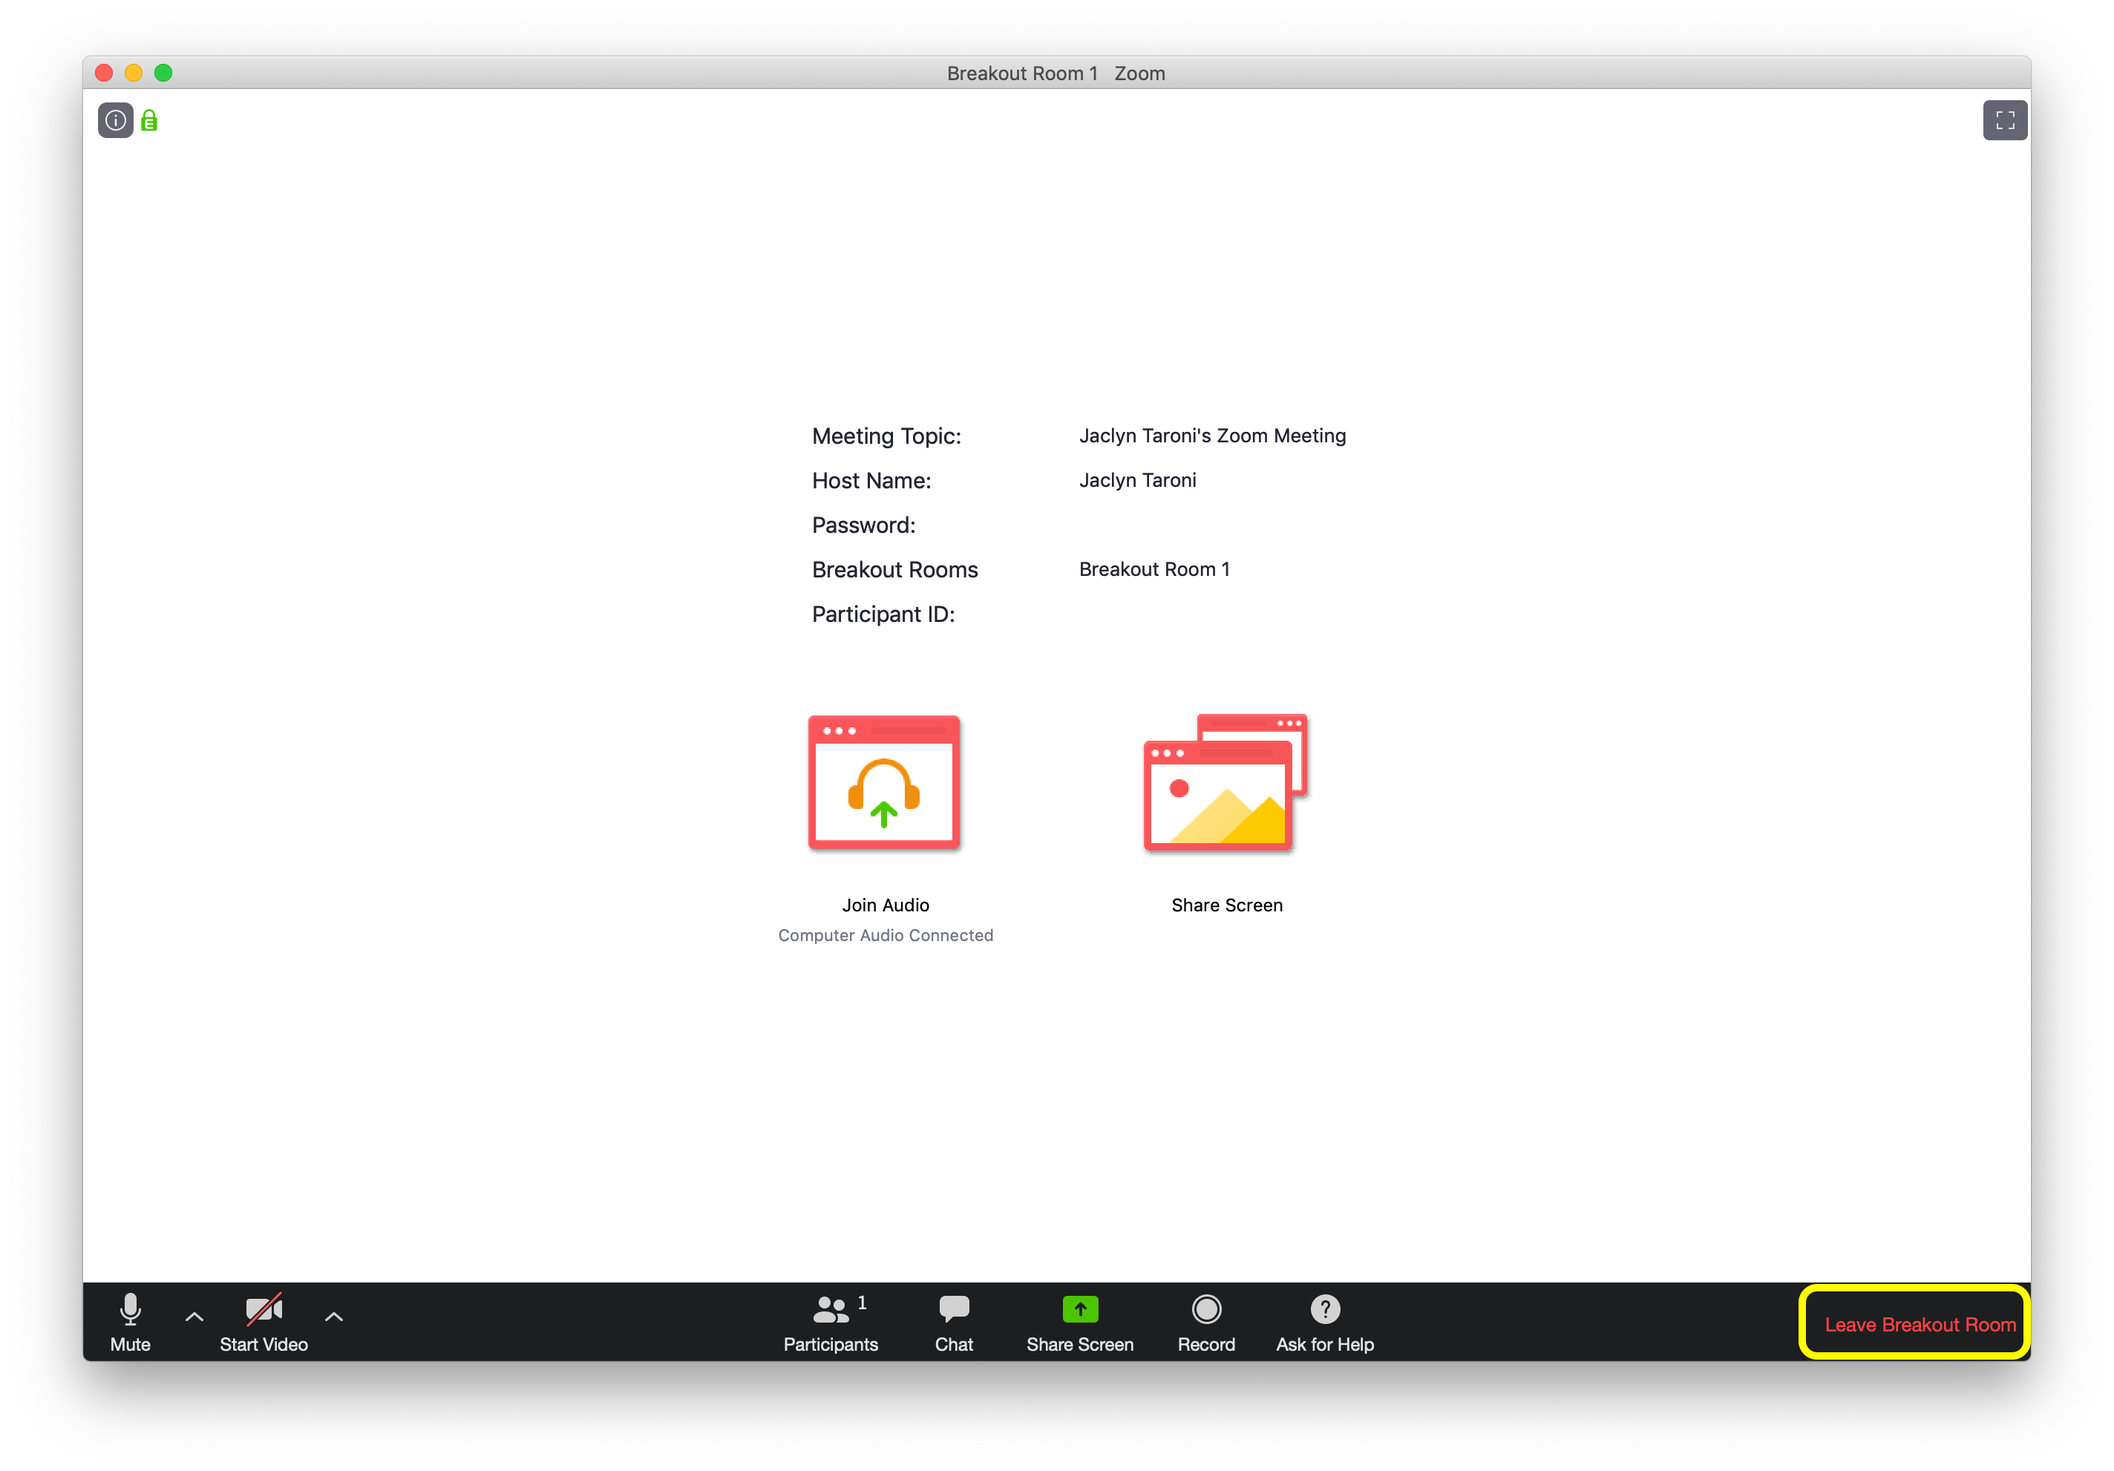
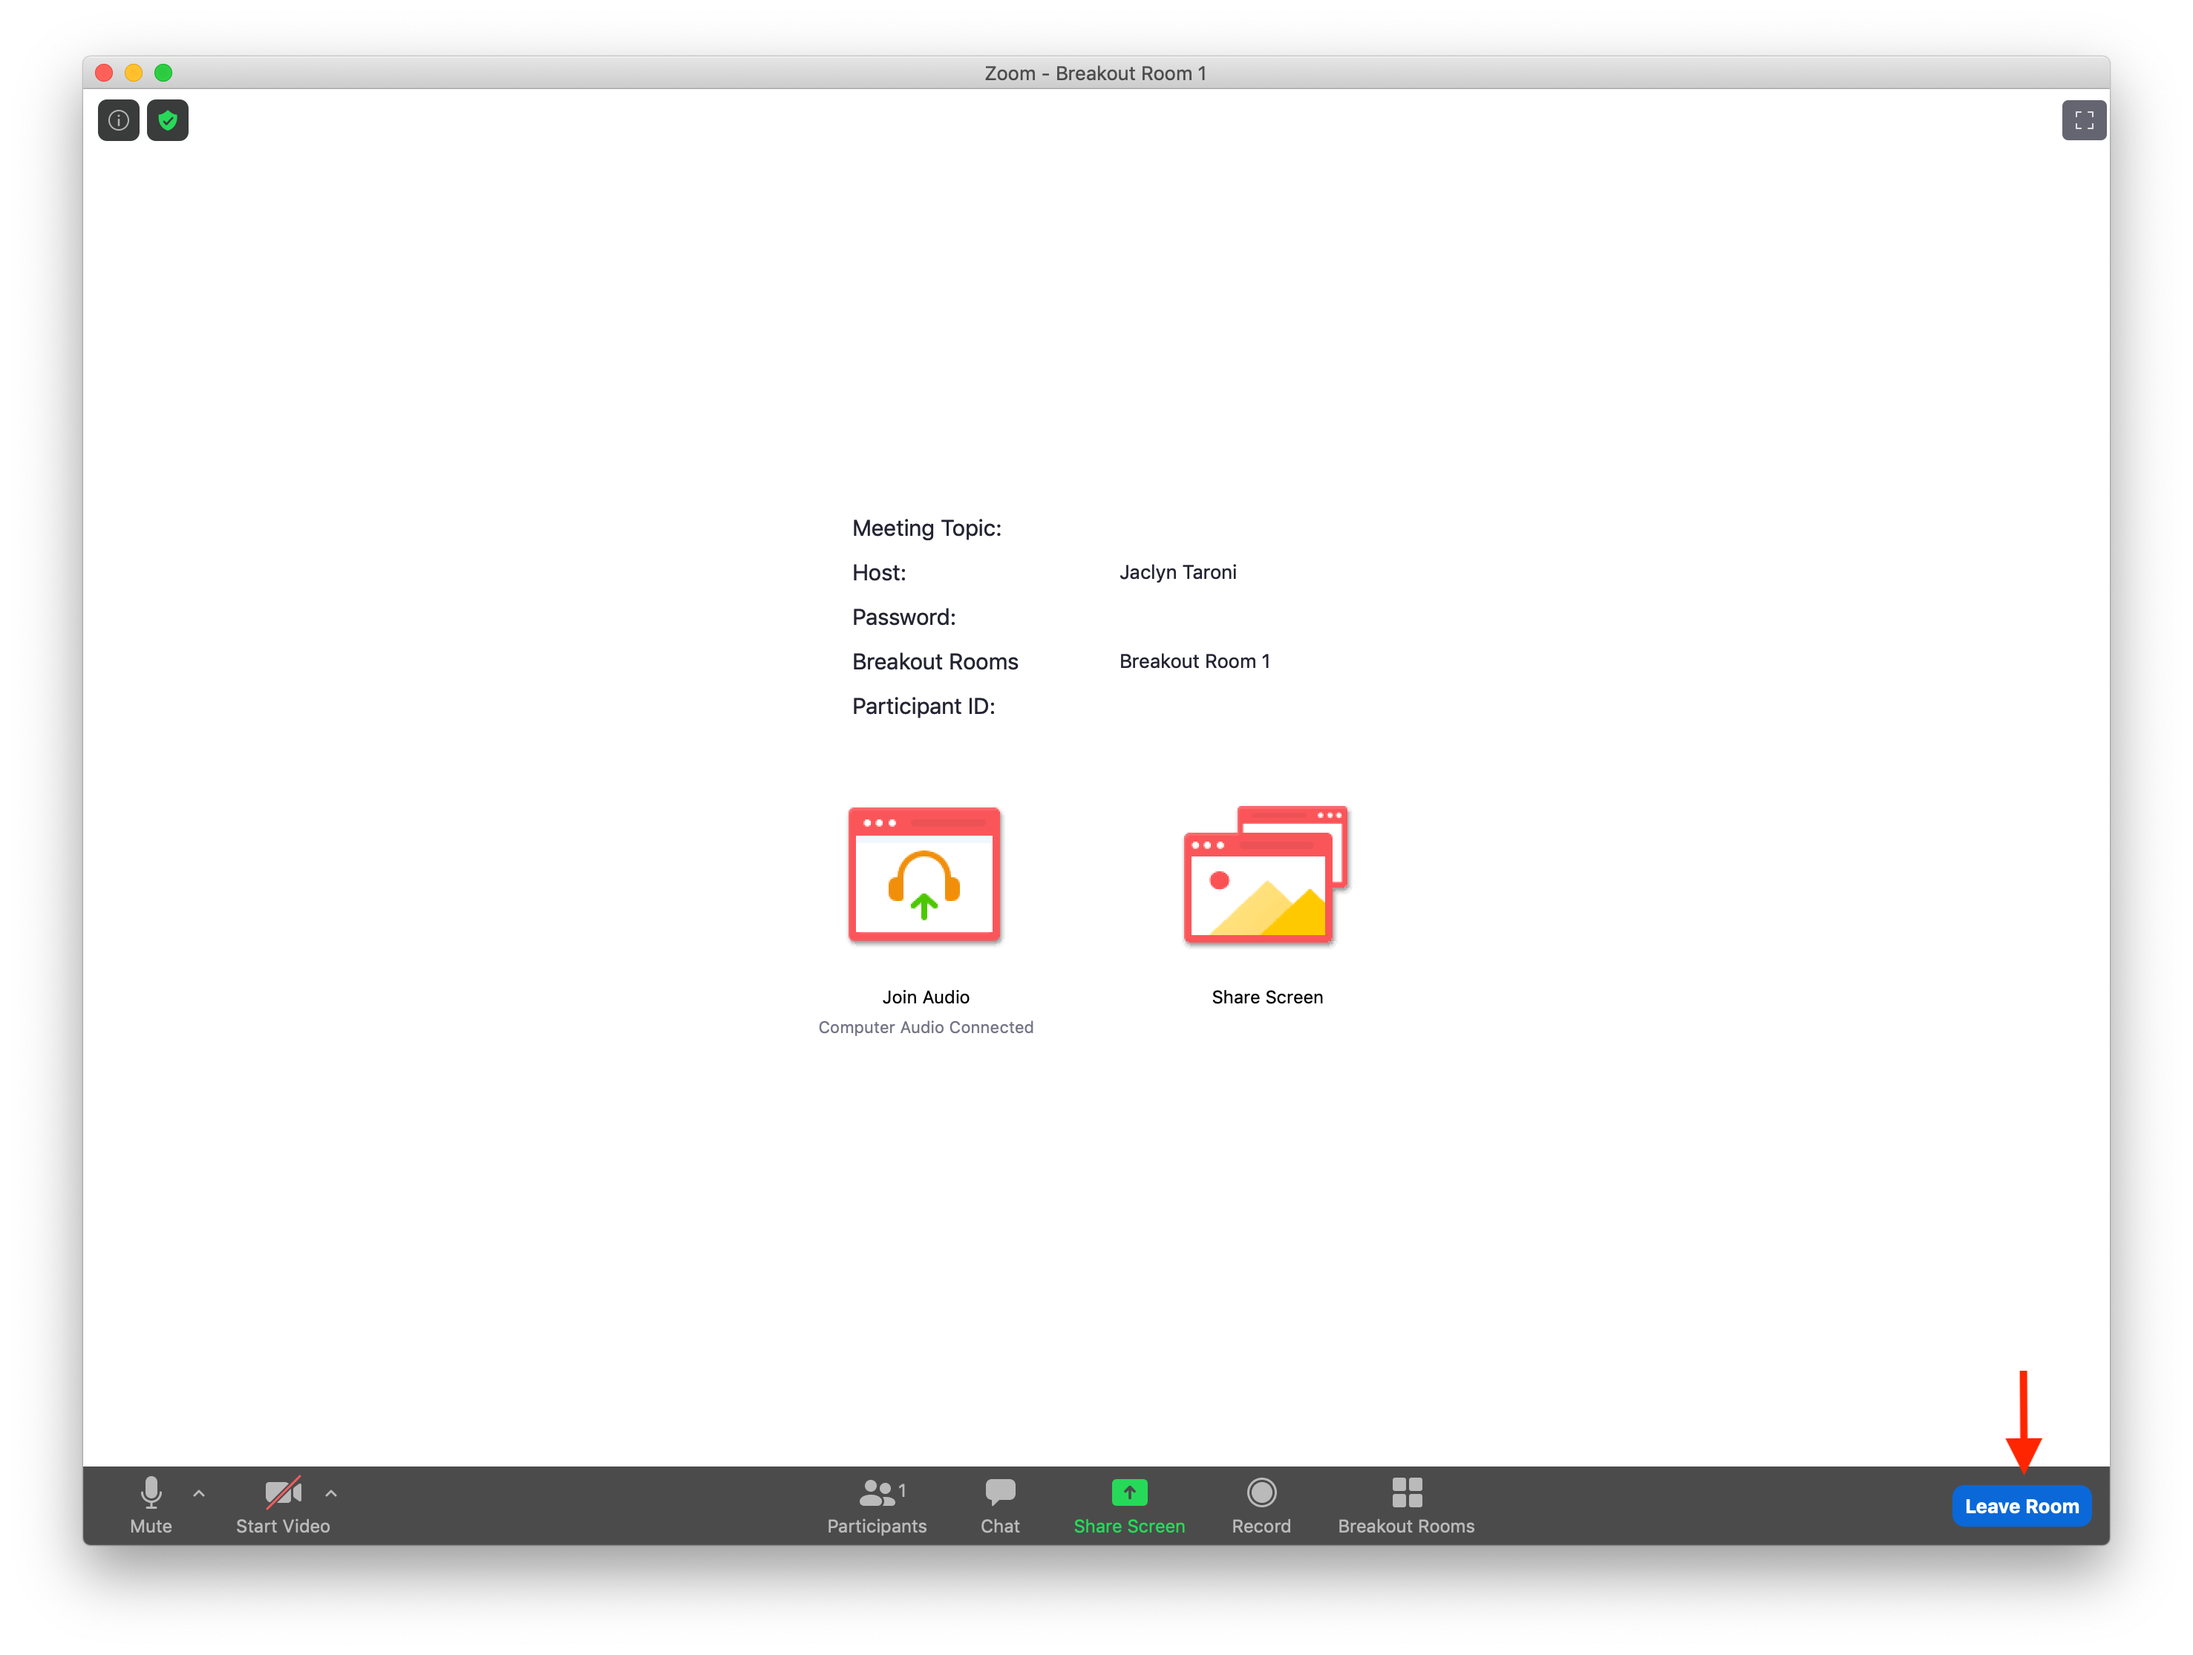
Update breakout room instructions

diff --git a/virtual-setup/zoom-procedures.md b/virtual-setup/zoom-procedures.md
@@ -176,13 +176,20 @@ To bring up chat, click the chat icon in the control bar.
 
 ### Joining a breakout room
 
-If you need 1:1 help during instruction, the host of the Zoom meeting will assign you and an available instructor to a breakout room so the instructor can provide assistance.
-When this happens, you will see a prompt like the one below.
-Click `Join Breakout Room`.
+The host of the Zoom meeting will assign you to a breakout room if you need 1:1 help and during certain periods of instruction.
+
+When you are assigned to a breakout, you will see a prompt like the one below.
+Click `Join Breakout Room` to go to the breakout room.
 
 <img src = "screenshots/zoom-join-breakout-room.png" width = "500">
 
-If you are assigned to a Zoom breakout room during a consultation session, the process for joining a breakout room is the same.
+If you were accidentally to hit `Later` **_or_** if you need to return to the breakout room after returning to the main session, you can click the `Join Breakout Room` icon in your control bar.
+
+<img src = "screenshots/zoom-participant-control-join-breakout-room.png" width = "500">
+
+That will bring up the popup window shown below; click `Join Breakout Room`.
+
+<img src = "screenshots/zoom-join-breakout-room-rejoin.png" width = "500">
 
 ### Sharing your screen in Zoom
 
@@ -204,18 +211,19 @@ To shop sharing your screen, click `Stop Share` at the top of the Zoom window.
 
 <img src = "screenshots/zoom-breakout-stop-screen-sharing.png" width = "750">
 
-To ask for help from the meeting host while in a breakout room, use the `Ask for Help` icon in the controls.
-
-<img src = "screenshots/zoom-breakout-ask-for-help.png" width = "750">
-
 ### Returning to the main session
 
-To return to the main session, select `Leave Breakout Room` from the control panel.
+To return to the main session, select `Leave Room` from the control panel.
 **Note that you will need to stop sharing your screen to leave the breakout room.**
 
 <img src = "screenshots/zoom-breakout-leave-room.png" width = "750">
 
+This will bring up a pop up that will give you the option to leave the Zoom call or leave the breakout room. Be sure you select `Leave Breakout Room` or else you will need use the Zoom link in your email or the training Slack channel to rejoin the meeting!
+
+<img src = "screenshots/zoom-to-leave-or-not-to-leave.png" width="400">
+
 You may receive messages from the host or a notification that the host is closing all breakout rooms while in a breakout room.
+Those will appear as green banners at the top of your Zoom window.
 
 ## Zoom during consultation
 
